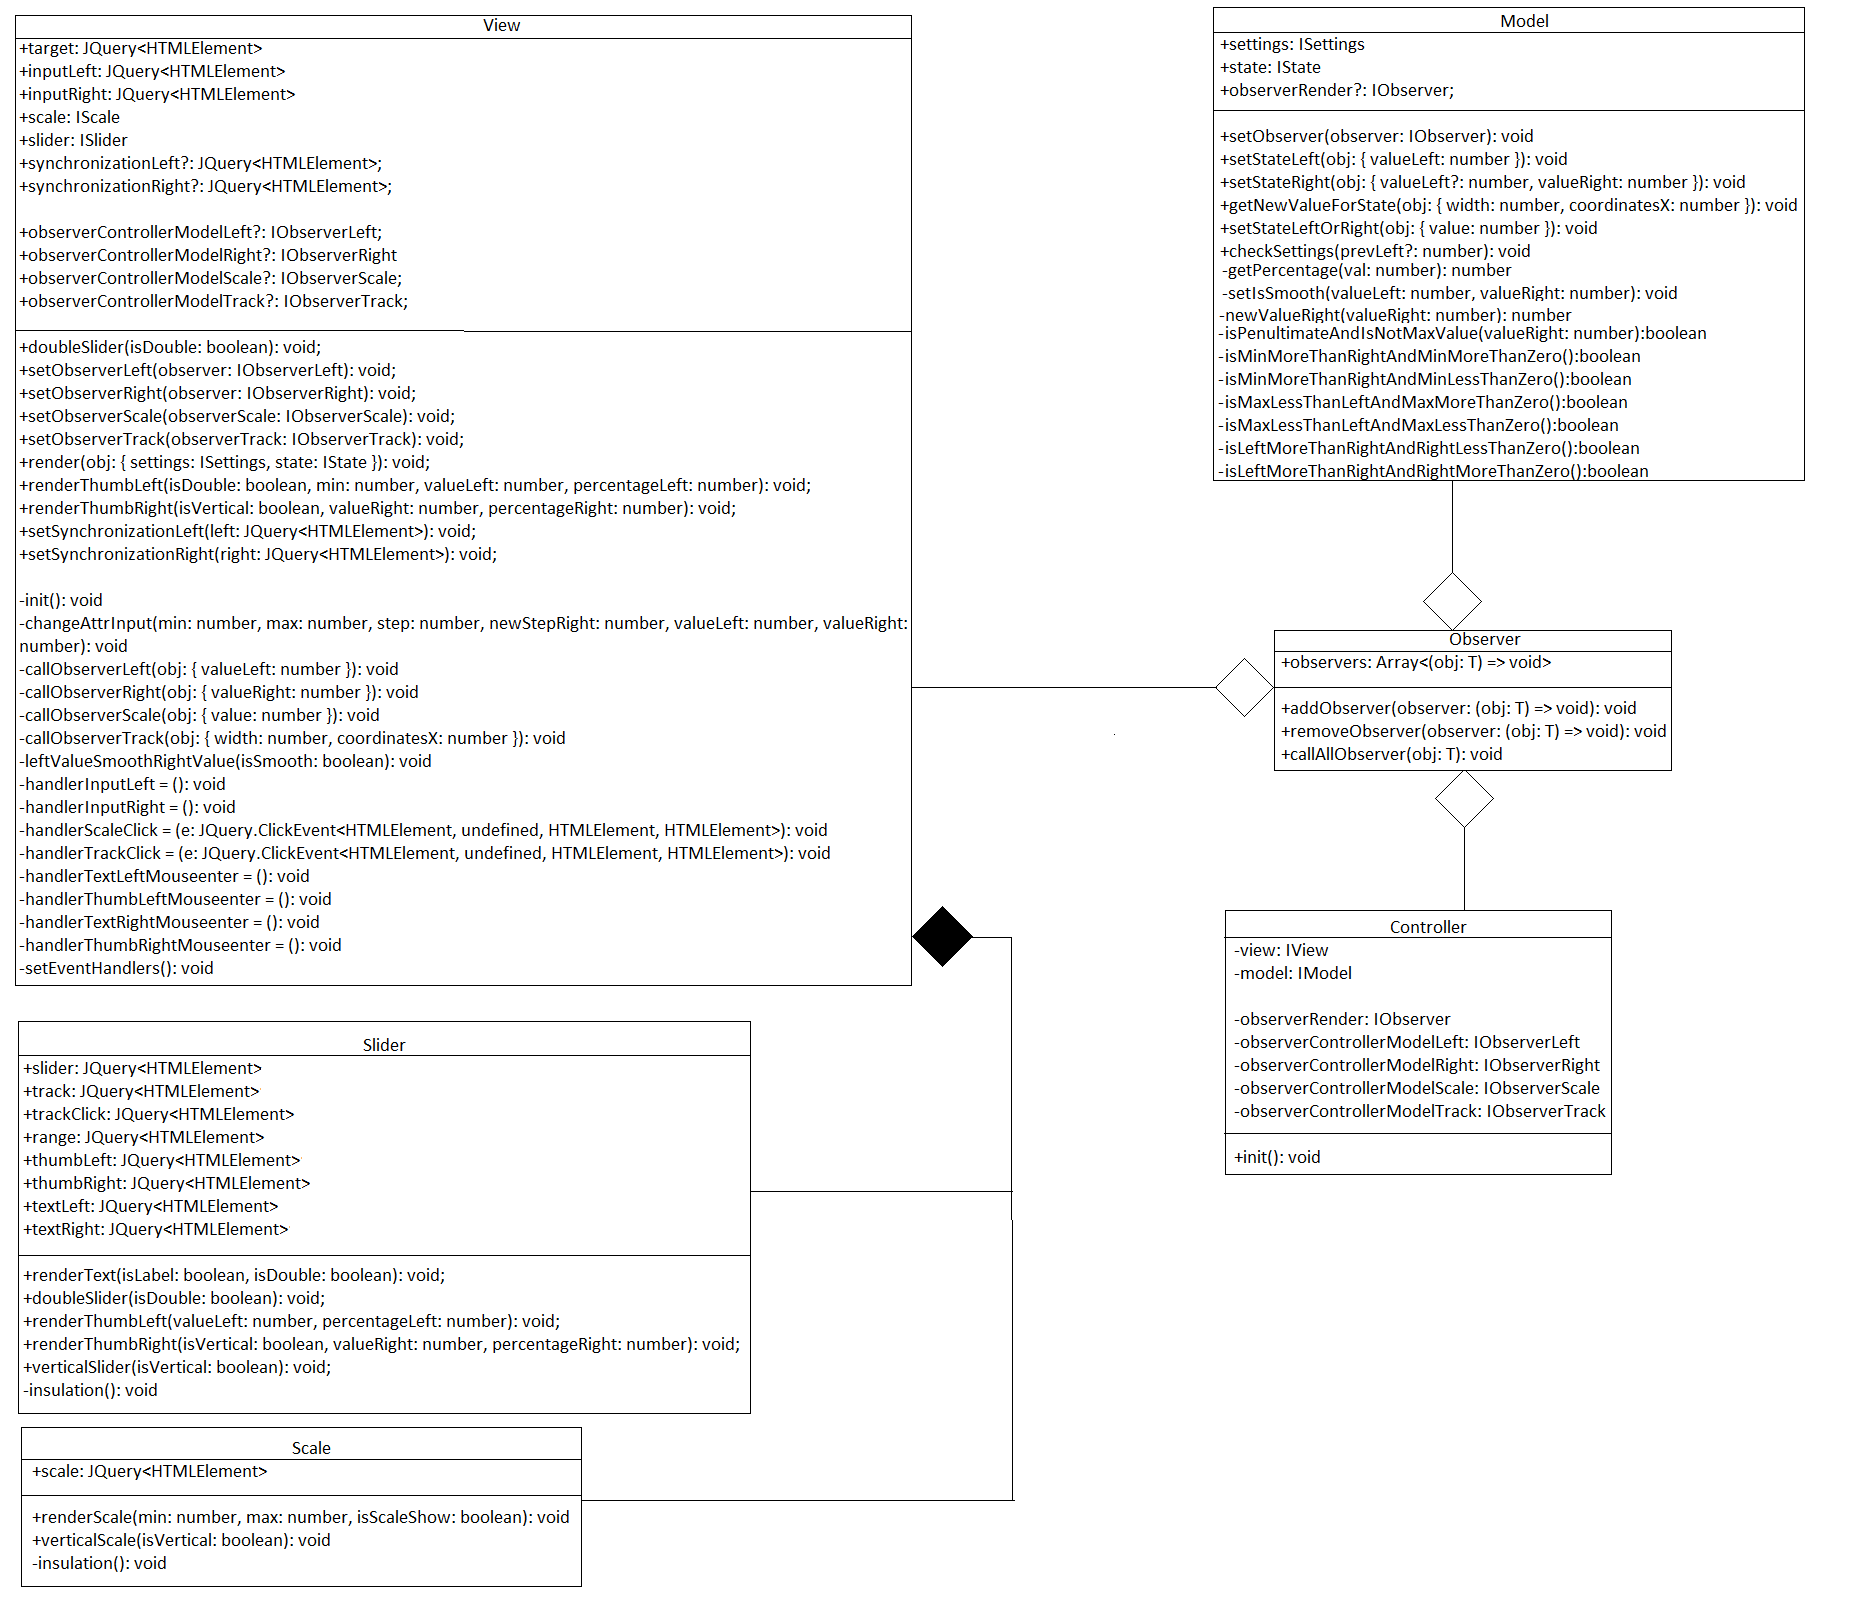
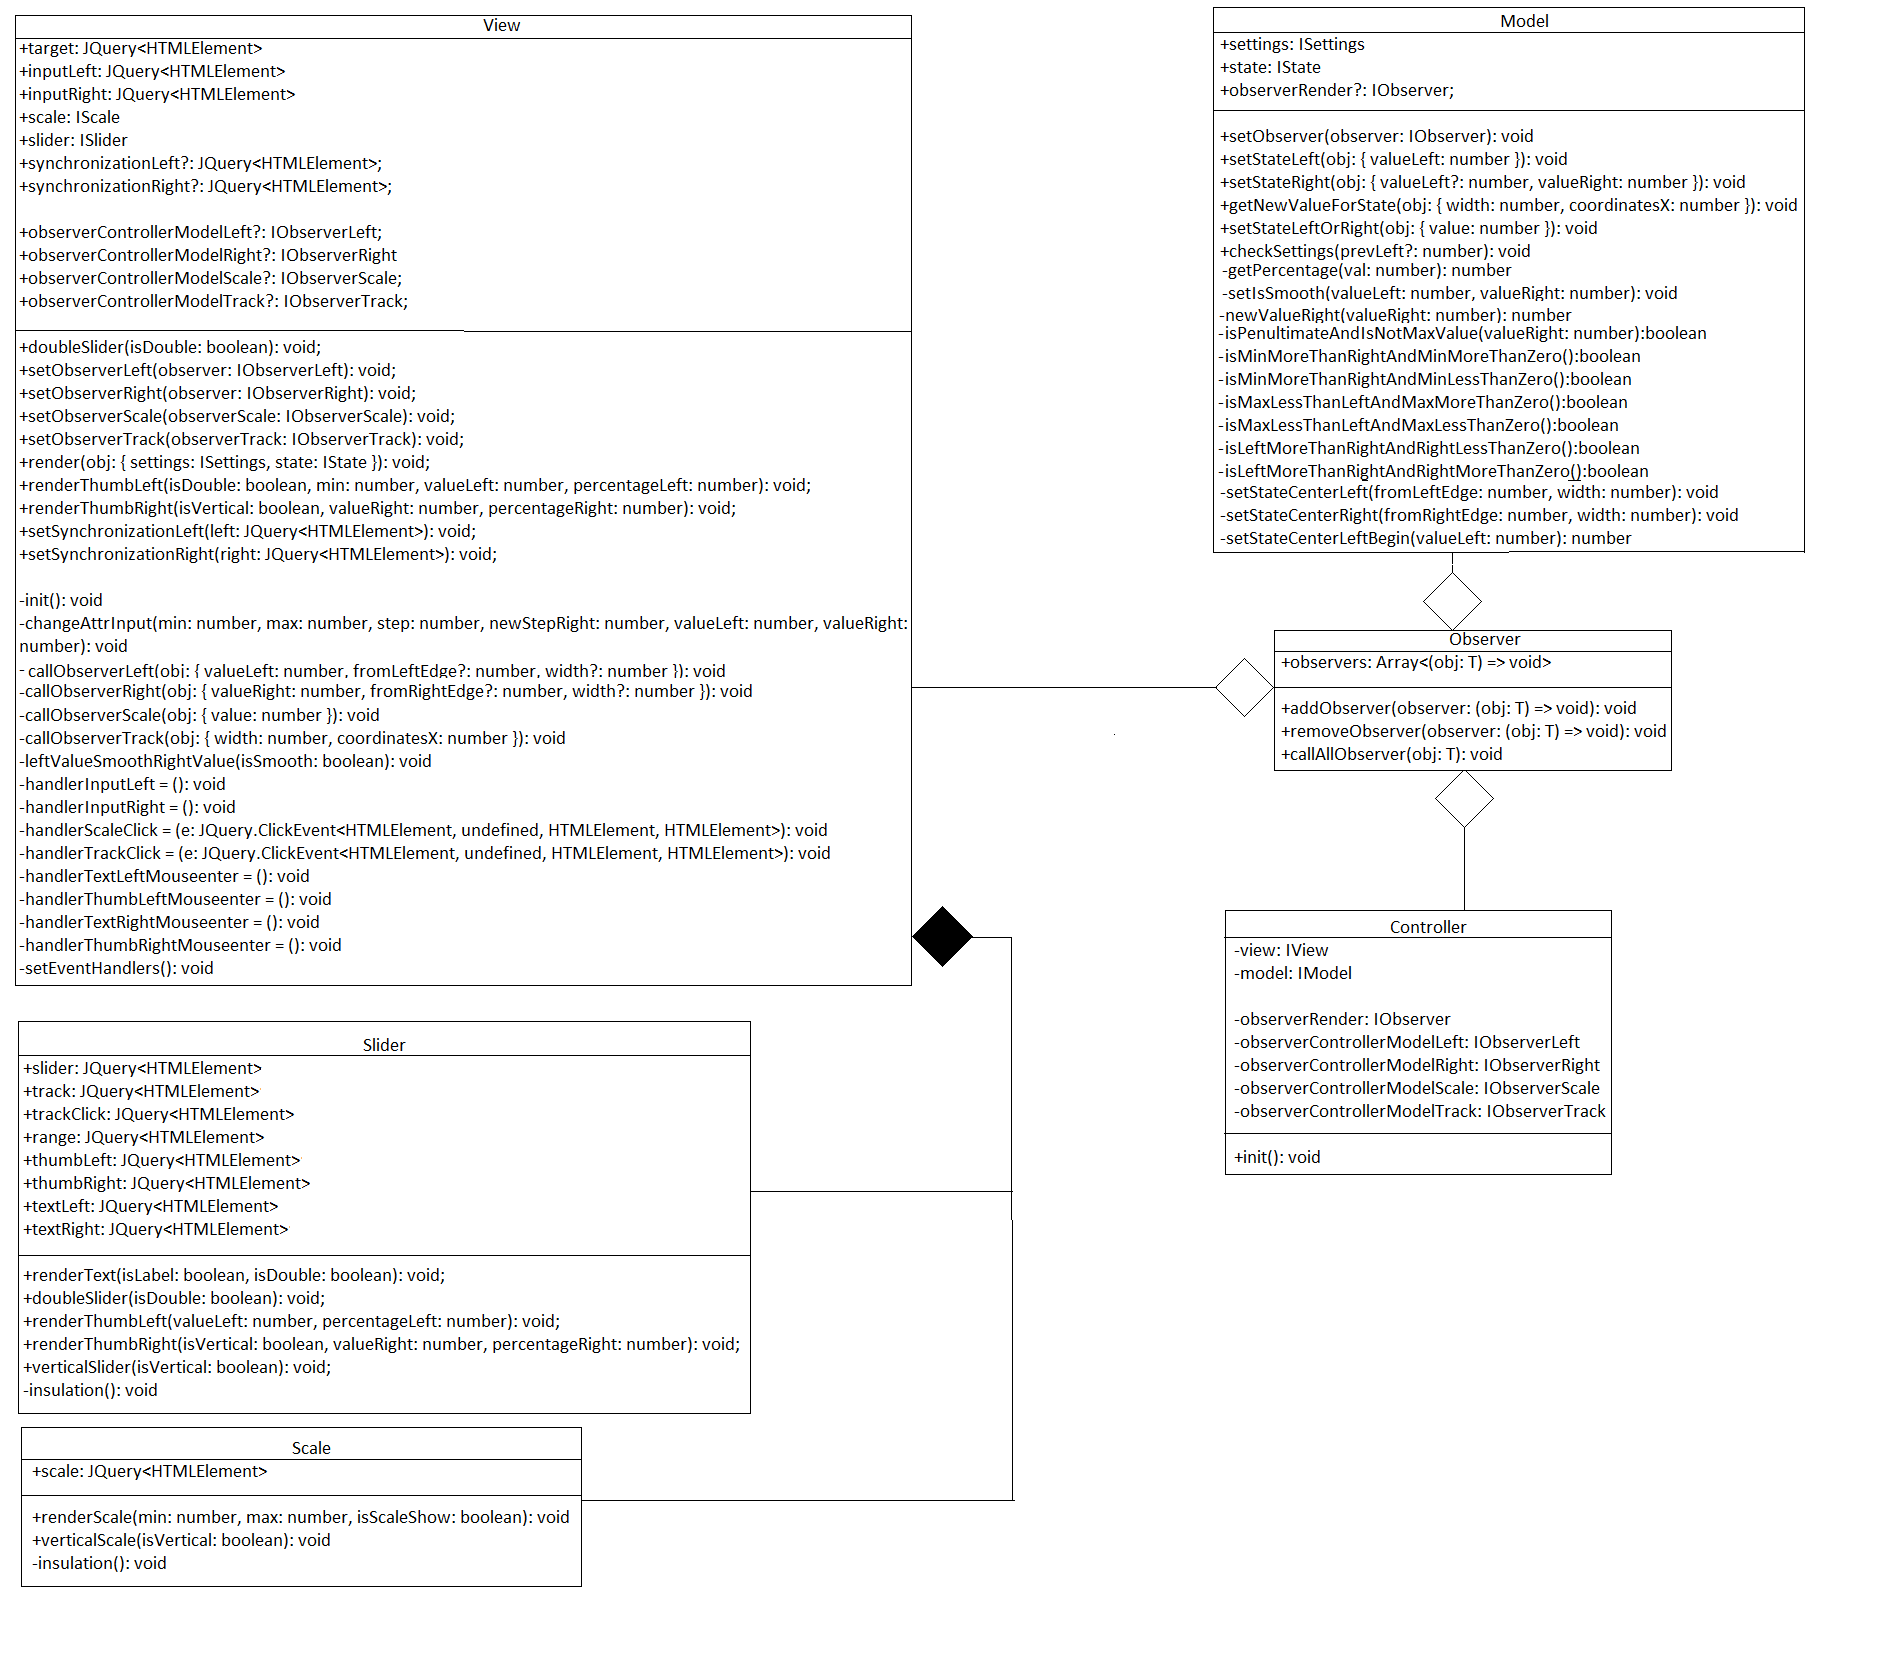
fix code

diff --git a/src/mvc/Model/Model.ts b/src/mvc/Model/Model.ts
@@ -159,7 +159,6 @@ export default class Model implements IModel {
     if (Math.abs(valueLeft) >= 10) {
       return -30;
     }
-
     return -50;
   }
 

diff --git a/README.md b/README.md
@@ -74,5 +74,5 @@ controller знает о model и view
  
 
 # UML
-https://ibb.co/28zKnZD
+https://ibb.co/LpTTj2h
 (./uml/uml.png)
